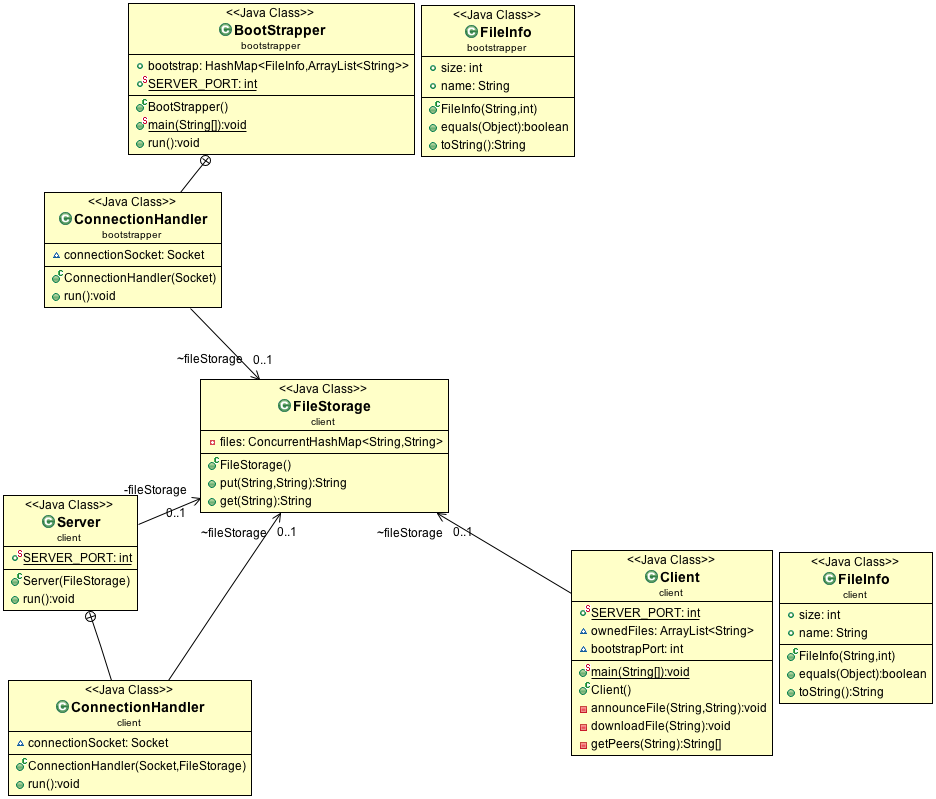
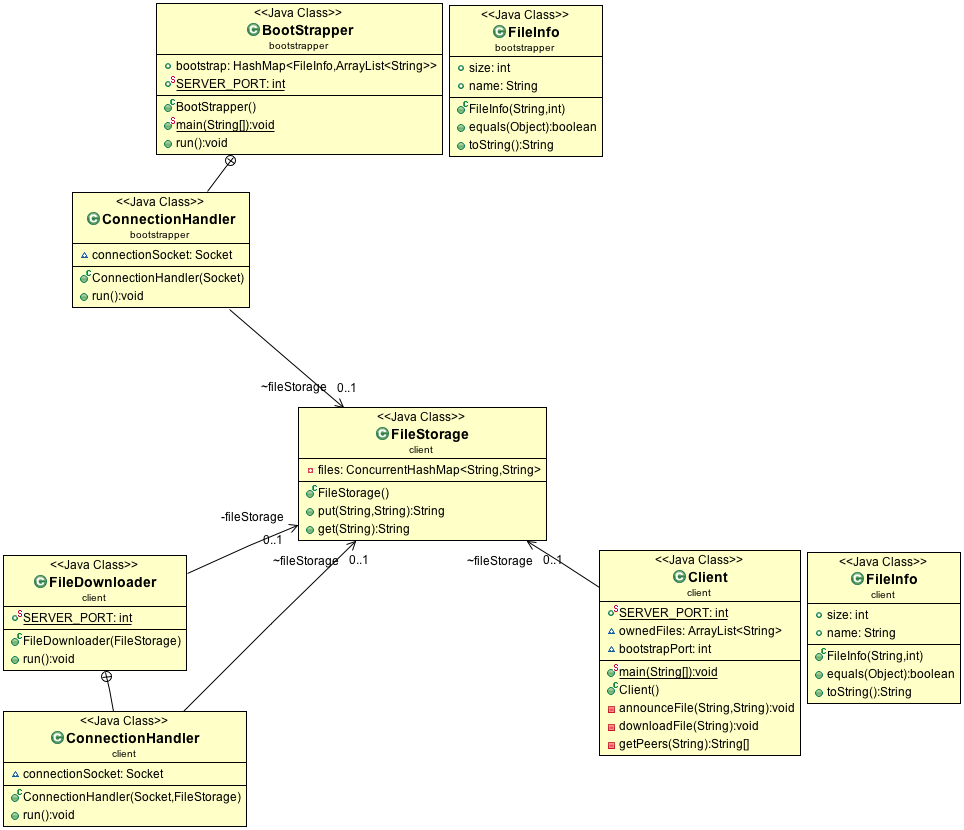
New UML
New UML, changed the file name

diff --git a/src/client/FileDownloader.java b/src/client/FileDownloader.java
@@ -9,11 +9,11 @@ import java.io.RandomAccessFile;
 import java.net.ServerSocket;
 import java.net.Socket;
 
-public class Server implements Runnable{
+public class FileDownloader implements Runnable{
 
 	public static int SERVER_PORT;
 	private FileStorage fileStorage;
-	public Server(FileStorage fileStorage){
+	public FileDownloader(FileStorage fileStorage){
 		this.fileStorage = fileStorage;
 	}
 	public void run() {
@@ -61,4 +61,3 @@ public class Server implements Runnable{
 		
 	}
 }
-

diff --git a/src/bootstrapper/BootStrapper.java b/src/bootstrapper/BootStrapper.java
@@ -12,7 +12,7 @@ import java.util.ArrayList;
 import java.util.HashMap;
 
 import client.FileStorage;
-import client.Server.ConnectionHandler;
+import client.FileDownloader.ConnectionHandler;
 
 public class BootStrapper implements Runnable {
 	public HashMap<FileInfo, ArrayList<String>> bootstrap = new HashMap<FileInfo, ArrayList<String>>();
